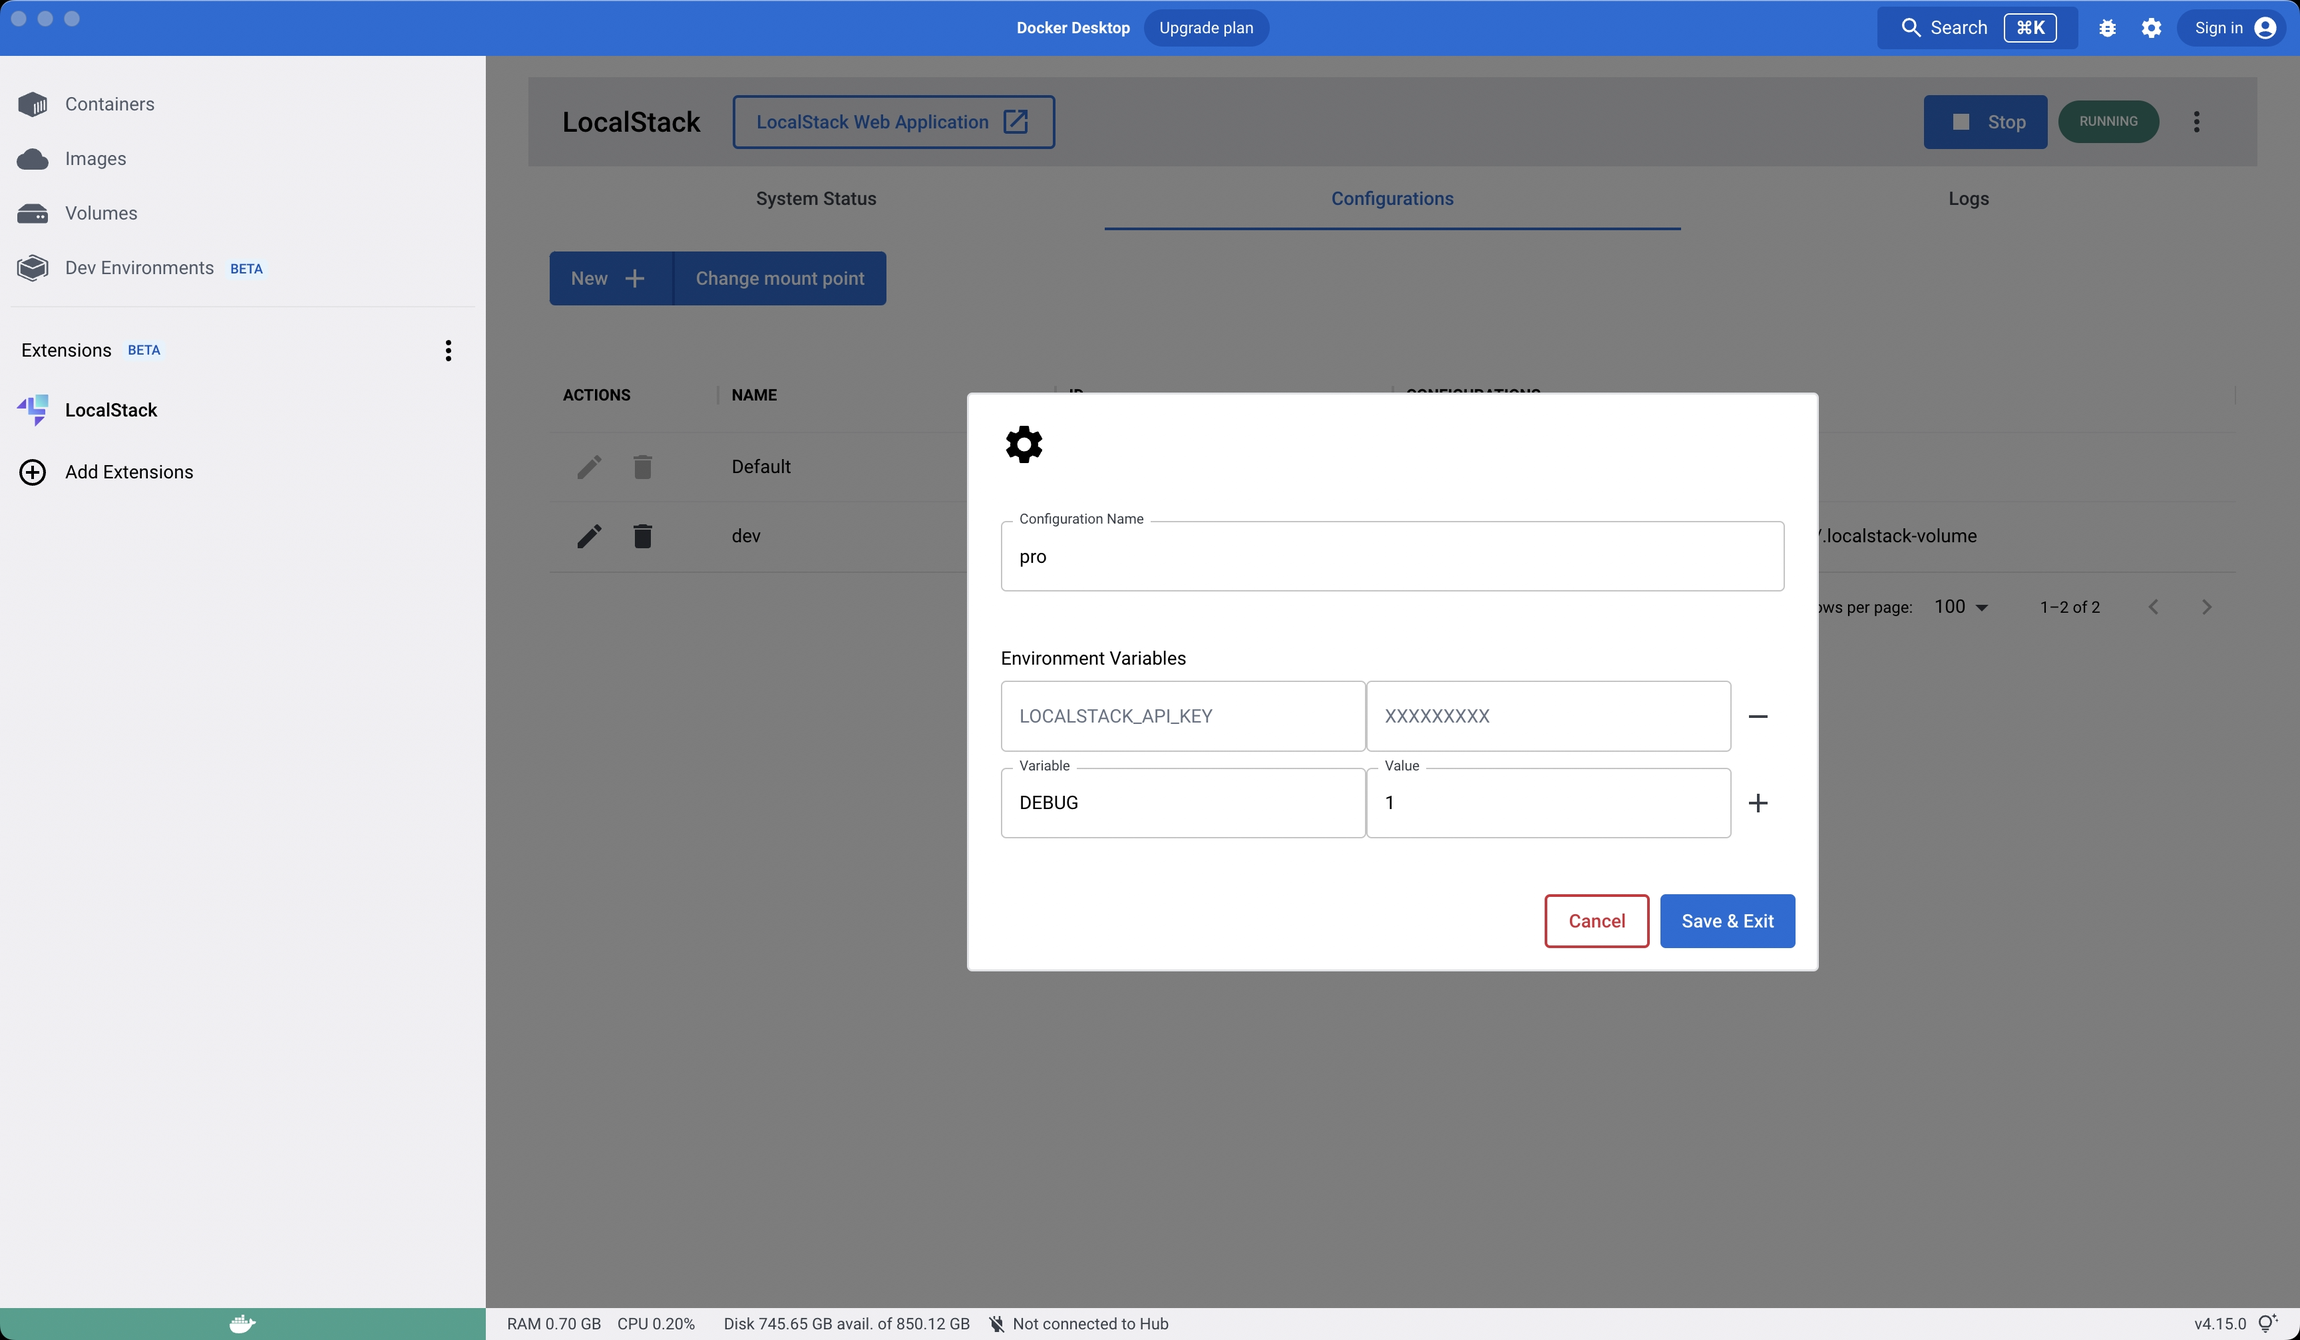
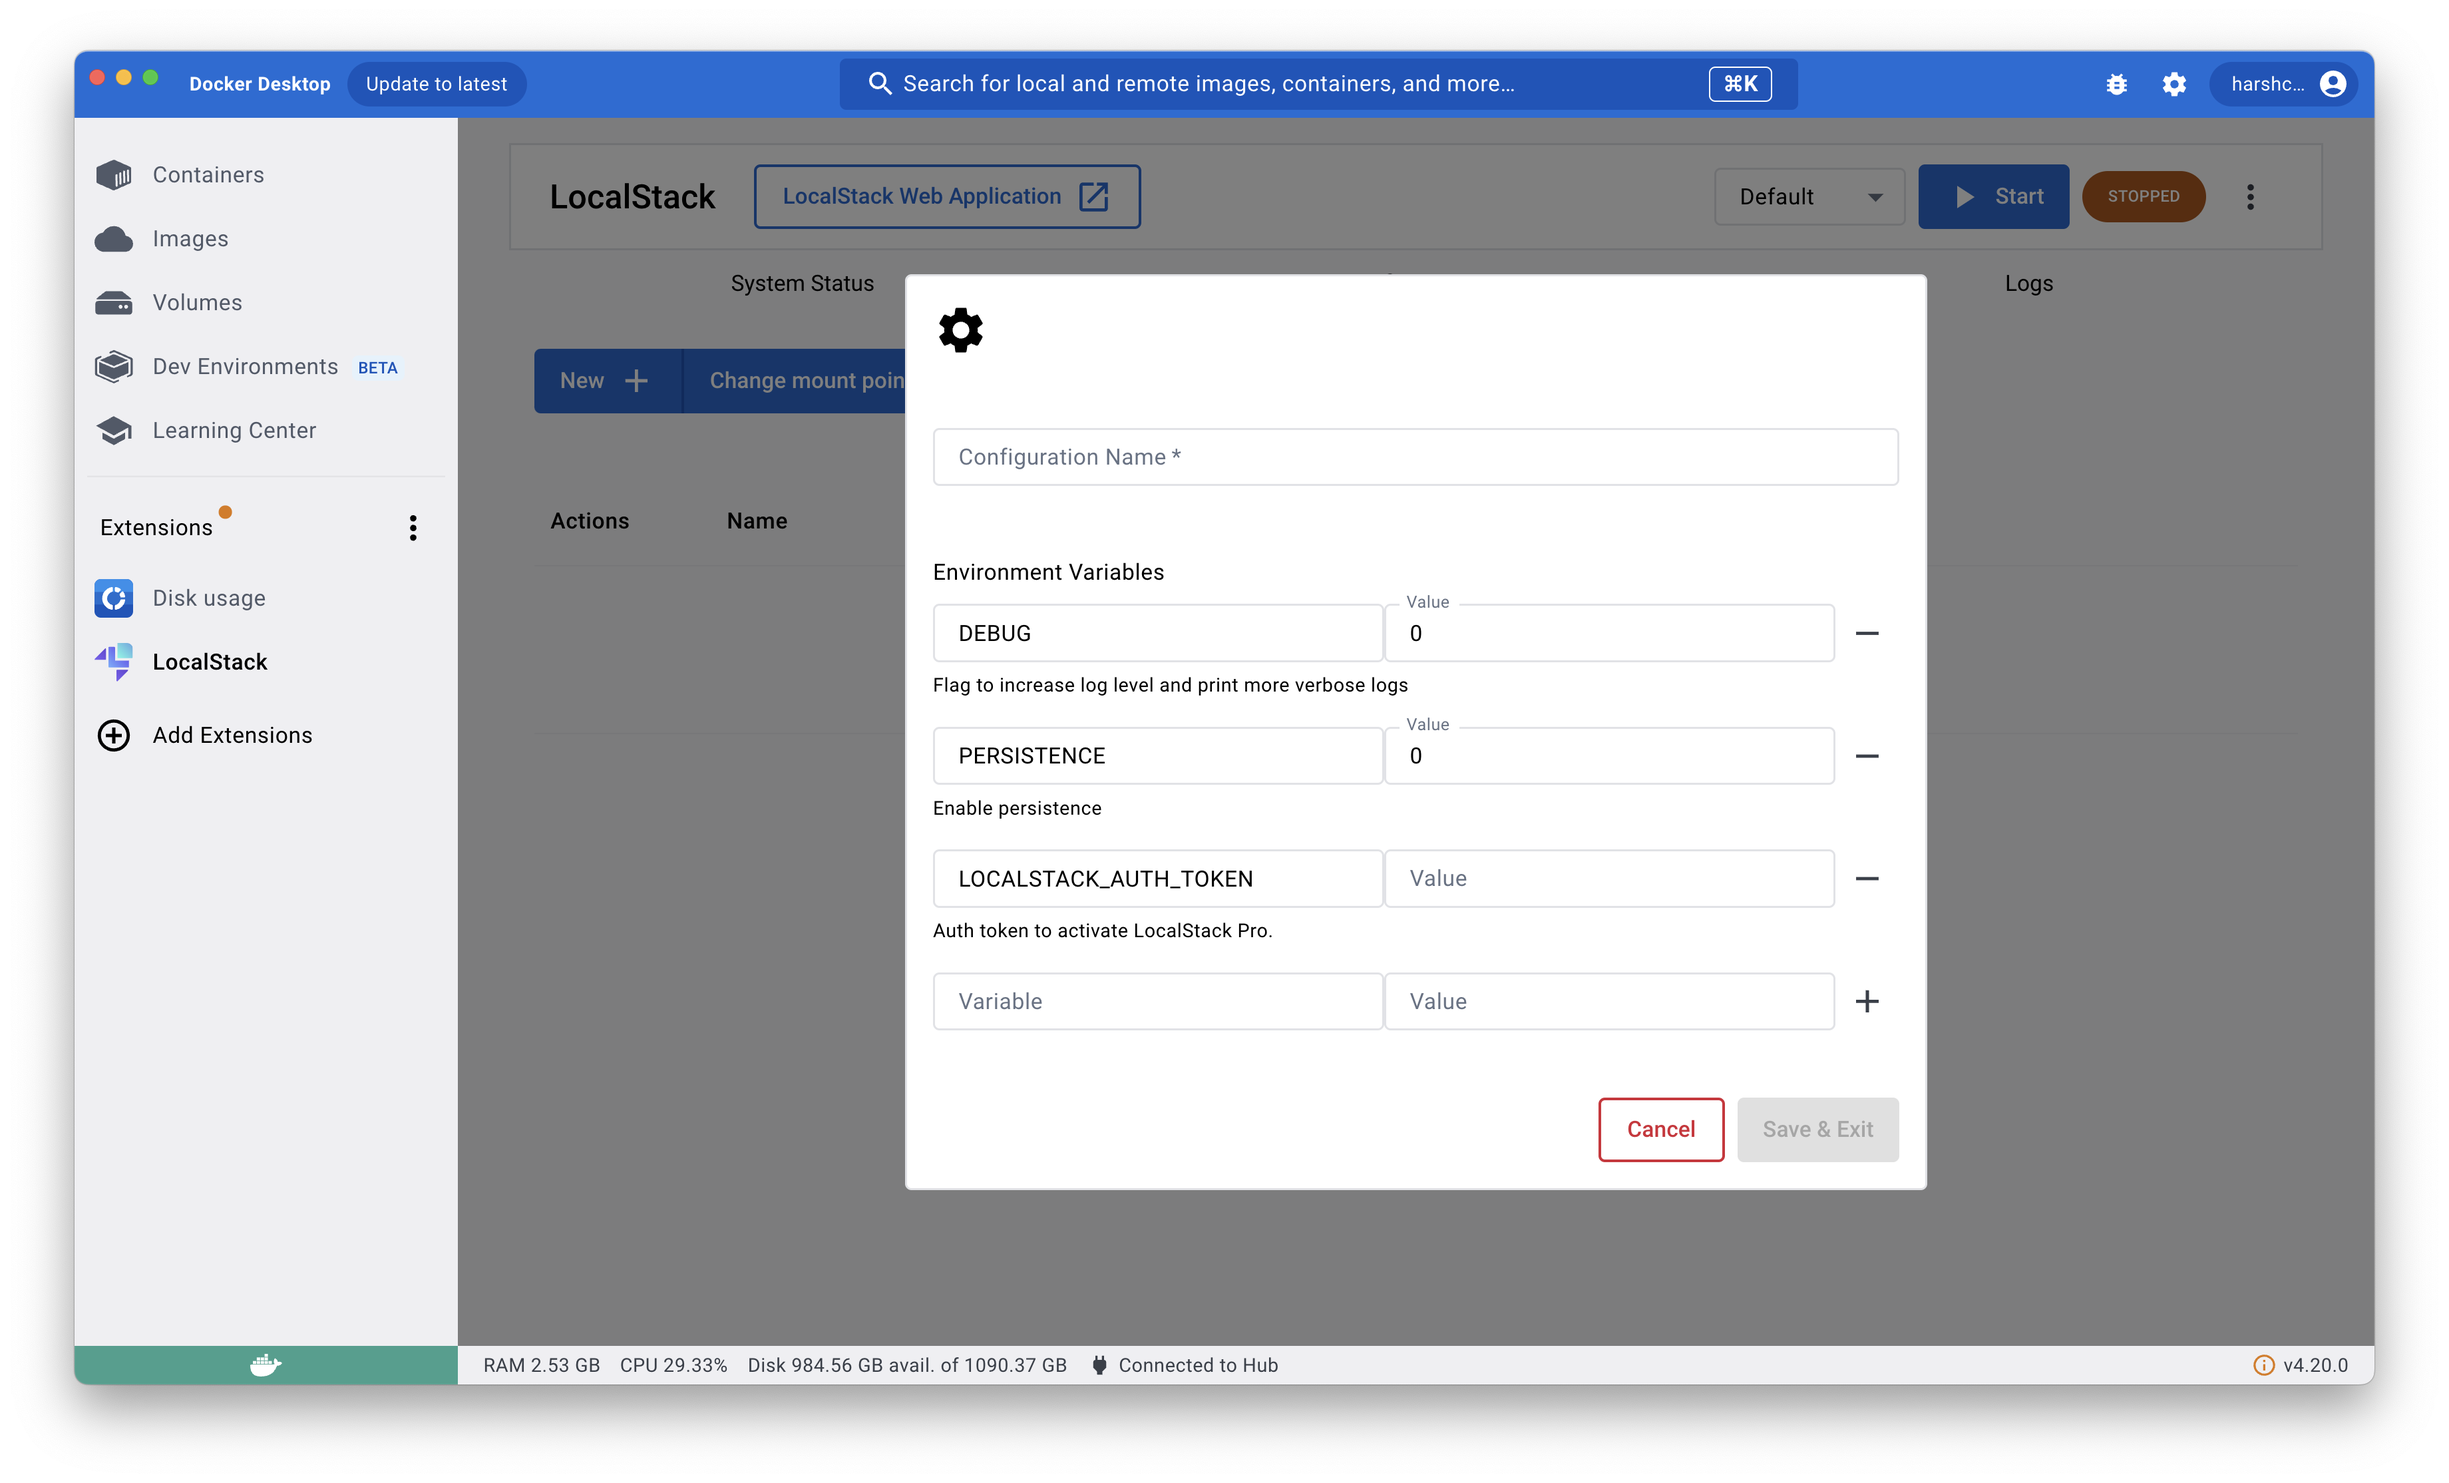
improve docker extension docs (#1191)

diff --git a/content/en/user-guide/tools/localstack-docker-extension/index.md b/content/en/user-guide/tools/localstack-docker-extension/index.md
@@ -8,50 +8,58 @@ aliases:
   - /user-guide/tools/docker-desktop-extension/
 ---
 
+## Introduction
+
 The LocalStack Extension for Docker Desktop enables developers working with LocalStack to operate their LocalStack container via Docker Desktop, including checking service status, container logs, and configuring profiles. To install the LocalStack Extension for Docker Desktop, you need to have [Docker Desktop installed on your machine](https://www.docker.com/products/docker-desktop).
 
-<img src="localstack-docker-extension.png" alt="LocalStack Extension for Docker Desktop" title="LocalStack Extension for Docker Desktop" width="900" />
+<img src="localstack-docker-extension.png" alt="LocalStack Extension for Docker Desktop" title="LocalStack Extension for Docker Desktop" width="800px"   />
 
 ## Installation
 
-To utilize LocalStack's Docker Extension, it is necessary to have a recent version of Docker Desktop (v4.8 or higher) installed on the local machine. To enable the extension, access the **Preferences** tab and select the **Enable Docker Extensions** option within the **Extensions** tab.
+To utilize LocalStack's Docker Extension, it is necessary to have a recent version of Docker Desktop (v4.8 or higher) installed on the local machine. To enable the extension, access the **Extensions** tab and select the **Enable Docker Extensions** and **Show Docker Extensions system containers** option.
 
-<img src="localstack-docker-extension-preferences.png" title="Enable Docker Extensions in the Preferences within the Extensions tab" width="900" />
+<img src="localstack-docker-extension-preferences.png" title="Enable Docker Extensions in the Preferences within the Extensions tab" width="800px"   />
 <br></br>
 
 The LocalStack Extension for Docker Desktop has been validated and can be accessed on the Extensions Marketplace. To begin using it, navigate to the **Extensions Marketplace**, search for **LocalStack**, and click the **Install** button to proceed with the installation.
 
-<img src="localstack-docker-extension-marketplace.png" title="Discover the LocalStack Extension on the Docker Desktop Marketplace and install it!" width="900" />
+<img src="localstack-docker-extension-marketplace.png" title="Discover the LocalStack Extension on the Docker Desktop Marketplace and install it!" width="800px"  />
 <br></br>
 
 An alternative method for installing the LocalStack's Extension for Docker Desktop is pulling the [public Docker image](https://hub.docker.com/r/localstack/localstack-docker-desktop) from Docker Hub and installing it!
 
 {{< command >}}
-$ docker extension install localstack/localstack-docker-desktop:0.3.1
+$ docker extension install localstack/localstack-docker-desktop:0.5.3
 {{< /command >}}
 
 After installation, you can access the LocalStack Extension for Docker Desktop from the **Extensions** tab. Upon the initial launch of the extension, a prompt to select a mount point for the LocalStack container will appear. Select your username from the drop-down menu. Furthermore, you can modify this setting later by navigating to the **Configurations** tab and choosing a different mount point.
 
-<img src="localstack-docker-extension-mount-point.png" title="Select the mount point upon the launch of LocalStack's Docker extension" width="900" />
+<img src="localstack-docker-extension-mount-point.png" title="Select the mount point upon the launch of LocalStack's Docker extension" width="800px"  />
 
 ## Features
 
 LocalStack's Docker Extension helps users to manage their LocalStack container with a simple and intuitive user interface through Docker Desktop. The extension includes container management, configuration profile management, service status, and container logs!
 
-### Control LocalStack
+### Container management
 
 You can start, stop, and restart LocalStack from the Docker Desktop. You can also see the current status of your LocalStack container and navigate to LocalStack Web Application.
 
-<img src="localstack-docker-extension-start.png" title="Start and Stop your LocalStack container with a single click of a button with LocalStack's extension" width="900" />
+<img src="localstack-docker-extension-start.png" title="Start and Stop your LocalStack container with a single click of a button with LocalStack's extension" width="800px"  />
 
-### LocalStack insights
+### Container logs
 
 You can see the log information of the LocalStack container and all the available services and their status on the service page.
 
-<img src="localstack-docker-extension-logs.png" title="Check the logs of your running LocalStack container through LocalStack's Docker extension" width="900" />
+<img src="localstack-docker-extension-logs.png" title="Check the logs of your running LocalStack container through LocalStack's Docker extension" width="800px"  />
 
-### LocalStack configurations
+### Configuration management
 
 You can manage and use your profiles via configurations and create new configurations for your LocalStack container.
 
-<img src="localstack-docker-extension-configuration-profile.png" title="Create your configuration profiles within LocalStack's Extension to affect the state of LocalStack" width="900" />
+<img src="localstack-docker-extension-configuration-profile.png" title="Create your configuration profiles within LocalStack's Extension to affect the state of LocalStack" width="800px" />
+
+## Configure an Auth Token
+
+To configure an Auth Token for the LocalStack Docker Extension, you need to create a new configuration profile. Navigate to the **Configurations** tab and click the **New +** button. Enter the configuration name and add the `LOCALSTACK_AUTH_TOKEN` environment variable with the desired value.
+
+To start the LocalStack Pro container with the Auth Token, select the configuration profile from the drop-down menu and click the **Start** button.
